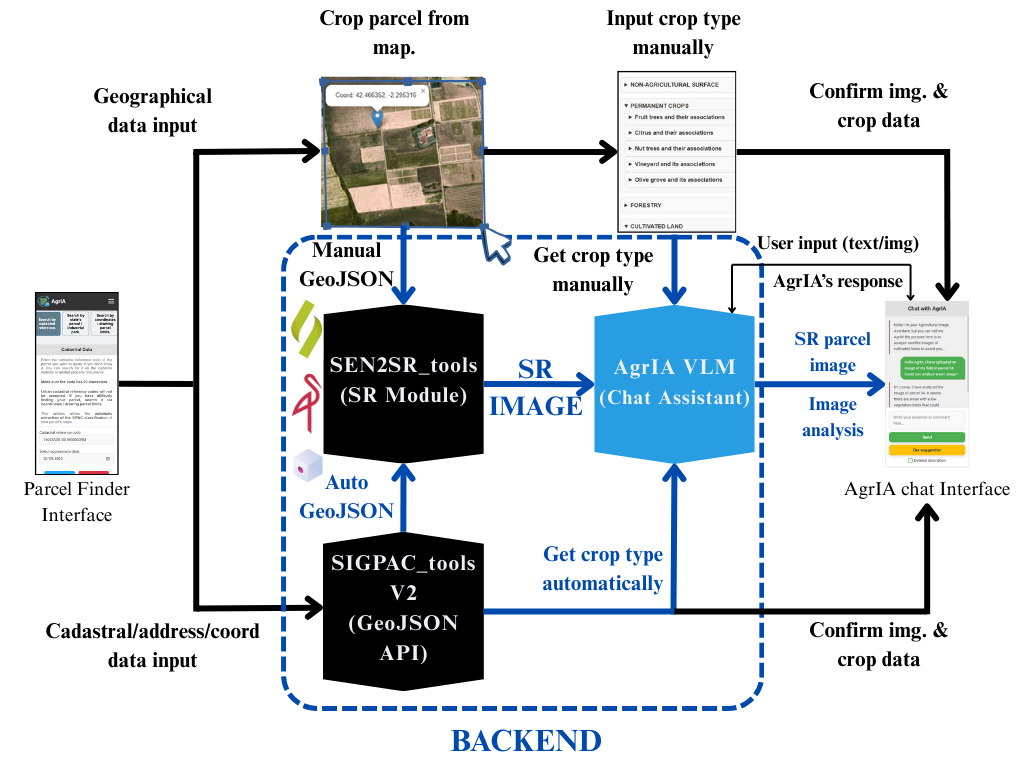
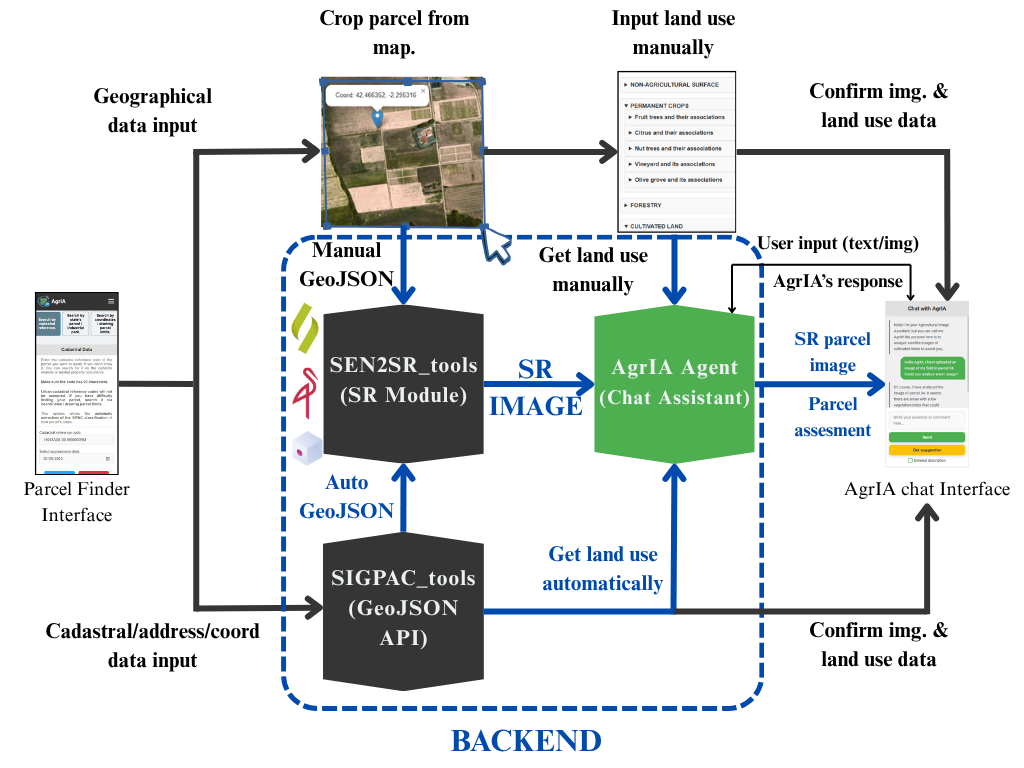
lint: ruff - Updated README doc and diagram. - Update backend tests.

diff --git a/AgrIA_server/test/agent/conftest.py b/AgrIA_server/test/agent/conftest.py
@@ -20,6 +20,7 @@ def test_config():
     """Generates a unique thread_id per test run to keep tests isolated."""
     return {"configurable": {"thread_id": f"test_{uuid.uuid4()}"}}
 
+
 @pytest.fixture
 def base_state():
     """Returns a baseline AgrIAState setup."""
@@ -44,3 +45,71 @@ def mock_llm_client(mocker):
     mock_response.text = '{"intent": "basic_chat", "confidence": 0.95}'
     mock_client.invoke.return_value = mock_response
     return mock_client
+
+
+@pytest.fixture(autouse=True)
+def mock_local_chat(monkeypatch):
+    """
+    Dynamically mocks LocalChat.send_message based on the input context
+    to pass validation loops and prevent GraphRecursionError in CI.
+    """
+
+    def dynamic_send_message(self_or_content, *args, **kwargs):
+        # Handle call whether user_content is passed as 1st or 2nd arg
+        if args:
+            user_content = args[0]
+        else:
+            user_content = self_or_content
+
+        content_str = str(user_content)
+        mock_response = MagicMock()
+
+        # 1. If called from report_generator or retry loop, return a compliant report
+        if (
+            "compile the agricultural report" in content_str
+            or "###DESCRIBE_SHORT_IMAGE###" in content_str
+        ):
+            mock_response.text = """
+### Informe de Análisis de Parcela
+
+| Ecorregimen | Tipo | Superficie (ha) |
+| :--- | :--- | :--- |
+| **Rotación de Cultivos** | Secano | 4.2 |
+
+**Resumen de Explotación:**
+La parcela identificada con referencia 26002A001000010000EQ cuenta con un área total de Total_Parcel_Area_ha: 4.2 ha.
+"""
+            return mock_response
+
+        # 2. If called from deterministic_router for intent classification
+        if "Classify the intent" in content_str:
+            if "###DESCRIBE_SHORT_IMAGE###" in content_str:
+                mock_response.text = '{"intent": "report_generator", "confidence": 1.0}'
+            elif (
+                "ecorregímenes" in content_str.lower()
+                and "importes" in content_str.lower()
+            ):
+                mock_response.text = (
+                    '{"intent": "ecoschemes_rates", "confidence": 0.98}'
+                )
+            elif "ecorregímenes" in content_str.lower() or "pac" in content_str.lower():
+                mock_response.text = '{"intent": "cap_query", "confidence": 0.95}'
+            elif "sentido de la vida" in content_str.lower():
+                mock_response.text = (
+                    '{"intent": "fallback_rejection", "confidence": 0.98}'
+                )
+            else:
+                mock_response.text = '{"intent": "basic_chat", "confidence": 0.95}'
+            return mock_response
+
+        # 3. Default basic chat response for standard chat nodes
+        mock_response.text = (
+            "Hola! Soy AgrIA. Respuesta simulada para pruebas de integración."
+        )
+        return mock_response
+
+    # Patch send_message with our dynamic wrapper
+    monkeypatch.setattr(
+        "src.models.chat_models.LocalChat.send_message",
+        dynamic_send_message,
+    )

diff --git a/AgrIA_server/test/agent/test_graph_interaction.py b/AgrIA_server/test/agent/test_graph_interaction.py
@@ -4,7 +4,7 @@ from src.agent.graph import AGRIA_GRAPH
 def test_greeting_flow(base_state, test_config):
     """[TEST A] Verify greeting routes to basic_chat_node."""
     state = base_state("Hola buenas tardes")
-    
+
     result = AGRIA_GRAPH.invoke(state, config=test_config)
 
     assert len(result["messages"]) > 1
@@ -15,7 +15,7 @@ def test_greeting_flow(base_state, test_config):
 def test_out_of_scope_flow(base_state, test_config):
     """[TEST B] Verify non-agricultural prompt routes to fallback_node."""
     state = base_state("¿Cuál es el sentido de la vida?")
-    
+
     result = AGRIA_GRAPH.invoke(state, config=test_config)
 
     assert len(result["messages"]) > 1
@@ -29,7 +29,6 @@ def test_report_flow(base_state, mock_crop_json, test_config):
     state["crop_metadata"] = mock_crop_json
     state["visual_description"] = "Parcela irregular con cultivo de secano."
 
-    
     result = AGRIA_GRAPH.invoke(state, config=test_config)
 
     assert len(result["messages"]) > 1
@@ -44,7 +43,7 @@ def test_cap_query_flow(base_state, test_config):
     state = base_state(
         "¿Cuáles son los ecorregímenes más adecuados para cultivos leñosos?"
     )
-    
+
     result = AGRIA_GRAPH.invoke(state, config=test_config)
 
     assert len(result["messages"]) > 1
@@ -54,7 +53,7 @@ def test_cap_query_flow(base_state, test_config):
 def test_ecoscheme_rates_flow(base_state, test_config):
     """[TEST E] Verify rates query triggers ecoscheme_rates_node."""
     state = base_state("¿Cuáles son los importes de los ecorregímenes en 2026?")
-    
+
     result = AGRIA_GRAPH.invoke(state, config=test_config)
 
     assert len(result["messages"]) > 1

diff --git a/AgrIA_server/src/services/chat_service.py b/AgrIA_server/src/services/chat_service.py
@@ -1,5 +1,4 @@
 import asyncio
-import inspect
 import structlog
 
 from PIL import Image
@@ -52,7 +51,7 @@ def _generate_user_response_sync(
             "lang": lang,
             "messages": [HumanMessage(content=final_input)],
         }
-        config = {"configurable": {"thread_id": thread_id}}  # Avoids multiple users colission
+        config = {"configurable": {"thread_id": thread_id}}
         invoke_method = getattr(agent_graph, "ainvoke", None)
         if invoke_method is not None:
             output_state = asyncio.run(invoke_method(inputs, config=config))
@@ -258,19 +257,24 @@ def _get_suggestion_for_chat_sync(chat_history: list[Content], lang: str):
             + str(last_message)
             + "### LAST_OUTPUT_END ###"
         )
-        language = "Spanish" if lang == "es" else "English"
         # Load System Instructions
         raw_instruction = load_prompt_asset("SUGGESTION.md")
         system_instruction = raw_instruction.replace(
             "{lang}", "Spanish" if lang == "es" else "English"
         )
 
-
         msg = [
             ("system", system_instruction),
             (
                 "human",
-                "\n".join(["Summarised chat:", summarised_chat, "\nLast chat entry:", last_chat_output]),
+                "\n".join(
+                    [
+                        "Summarised chat:",
+                        summarised_chat,
+                        "\nLast chat entry:",
+                        last_chat_output,
+                    ]
+                ),
             ),
         ]
         suggestion = client.invoke(msg)

diff --git a/AgrIA_server/src/agent/nodes/validation_node.py b/AgrIA_server/src/agent/nodes/validation_node.py
@@ -35,14 +35,16 @@ def validate_report_node(state: AgrIAState) -> dict:
             errors.append(
                 f"Missing critical metadata value: Total parcel area ({total_area} ha) must be explicitly stated."
             )
-    elif not "using last user message" in generated_report.lower():
+    elif "using last user message" not in generated_report.lower():
         logger.warning(
             "⚠  No parcel land use metadata detected. Moving on with unvalid report..."
         )
-        i = len(messages) -1
+        i = len(messages) - 1
         usr_msg = None
         while i >= 0 and not usr_msg:
-            usr_msg = messages[i].content if isinstance(messages[i], HumanMessage) else None
+            usr_msg = (
+                messages[i].content if isinstance(messages[i], HumanMessage) else None
+            )
             i -= 1
         errors.append(
             f"Insert '_Using last user message as land use metadata...<br>_'at the beginning of the report and use this as metadata:\n<usr_msg>\n{usr_msg}\n</usr_msg>\n\nDo not include this in the report, only the requested insertion."
@@ -58,9 +60,7 @@ def validate_report_node(state: AgrIAState) -> dict:
         logger.warning(feedback_note)
         return {"correction_feedback": feedback_note}
 
-    state["crop_metadata"] = (
-        None  # Reset crop metadata after successful validation
-    )
+    state["crop_metadata"] = None  # Reset crop metadata after successful validation
     return {"correction_feedback": "PASSED"}
 
 

diff --git a/AgrIA_server/src/agent/nodes/report_node.py b/AgrIA_server/src/agent/nodes/report_node.py
@@ -59,7 +59,7 @@ ATTENTION: Your previous output failed verification checks. You MUST fix these e
             # If the message has an ID, create a RemoveMessage instruction for LangGraph
             if hasattr(last_msg, "id") and last_msg.id:
                 message_to_remove = RemoveMessage(id=last_msg.id)
-            
+
             # Exclude the failed report from the history passed to LLM
             history_messages = history_messages[:-1]
 
@@ -88,11 +88,11 @@ Please compile the agricultural report matching the template constraints using t
     response_wrapper = chat.send_message(user_content)
 
     messages_update = []
-    
+
     # If we have a failed message to purge from state, add RemoveMessage command first
     if message_to_remove:
         messages_update.append(message_to_remove)
-        
+
     messages_update.append(AIMessage(content=response_wrapper.text))
 
     # Return updates back cleanly to the graph lifecycle state machine

diff --git a/AgrIA_server/test/endpoints/test_chat.py b/AgrIA_server/test/endpoints/test_chat.py
@@ -45,7 +45,9 @@ async def test_generate_user_response_uses_async_graph(monkeypatch):
         return {"messages": [AIMessage(content="Async graph reply")]}
 
     monkeypatch.setattr(chat_service.agent_graph, "ainvoke", fake_ainvoke)
-    monkeypatch.setattr(chat_service, "get_image_description", lambda *args, **kwargs: (["ok"], "ctx"))
+    monkeypatch.setattr(
+        chat_service, "get_image_description", lambda *args, **kwargs: (["ok"], "ctx")
+    )
 
     response = await chat_service.generate_user_response("Hello", False, "en")
 

diff --git a/AgrIA_server/src/agent/nodes/router_node.py b/AgrIA_server/src/agent/nodes/router_node.py
@@ -55,7 +55,7 @@ def deterministic_router(state: AgrIAState, client, model_name: str) -> VALID_IN
             f"Classify the intent of the last message in this context:\n"
             f"<last_user_message>\n{text_content}\n</last_user_message>"
         )
-        
+
         response_wrapper = classifier_chat.send_message(user_prompt)
         response_text = response_wrapper.text.strip()
 

diff --git a/AgrIA_server/src/models/chat_models.py b/AgrIA_server/src/models/chat_models.py
@@ -1,6 +1,5 @@
 import asyncio
 import base64
-import inspect
 import io
 import openai
 import structlog

diff --git a/README.md b/README.md
@@ -51,7 +51,7 @@ In order to run `AgrIA` properly, you will need the following:
 - `Conda` package manager (installment guide available at [conda.io](https://docs.conda.io/projects/conda/en/latest/user-guide/install/index.html)).
 - `Node.js` and `npm` (download tutorial available at [npmjs.com](https://docs.npmjs.com/downloading-and-installing-node-js-and-npm)).
     - `Angular CLI` (easy to get if you have `npm` by just using `npm install -g @angular/cli`).
-- Have the `AgrIA_server/.env` file setup and have the `GEOJSON_FILE` constant set (see [`AgrIA_server/README.md`](AgrIA_server/README.md)). This last file is essential if you want access to the MinIO database.
+- Have the `AgrIA_server/.env` file setup.
 
 ## 🚀 Quickstart:
 In order to get AgrIA started, you will need to assign the essential environment variables:
